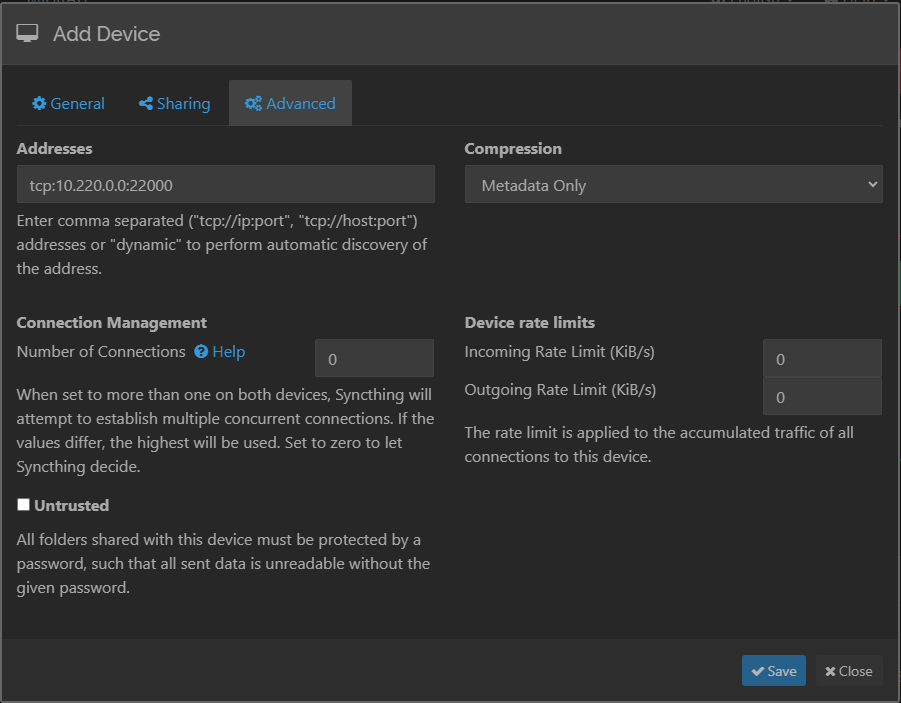
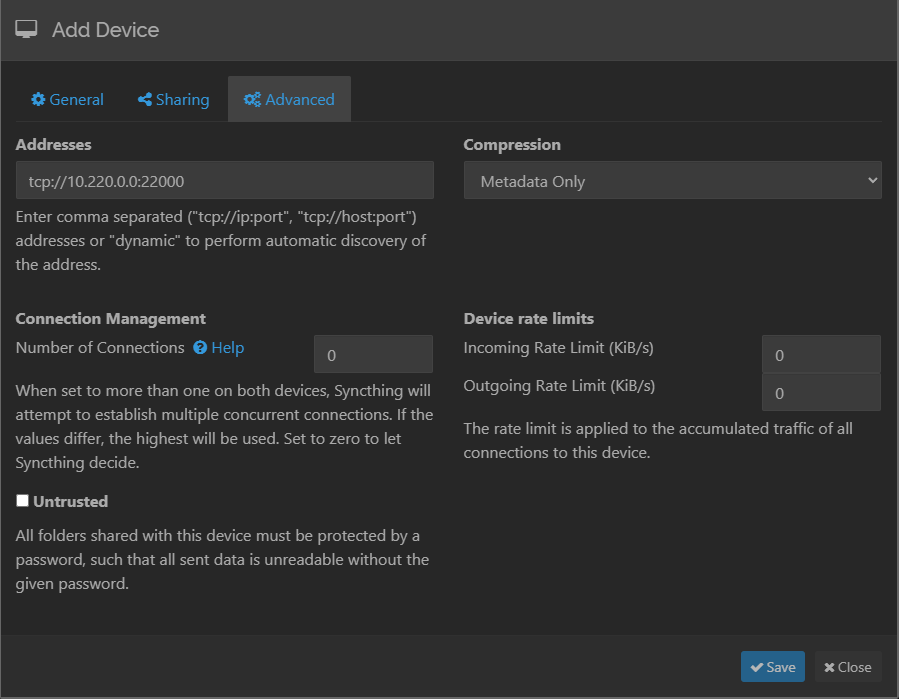
DOCS-2044-misleading-screen-shot-in-syncthing-data-migration

diff --git a/content/GettingStarted/DataMigrationSyncthing.md b/content/GettingStarted/DataMigrationSyncthing.md
@@ -138,9 +138,14 @@ The process of setting up data migration from an external NAS to TrueNAS consist
    Enter a clear identifying name, such as *INGEST*, and click **Save**.
 
 3. [Create a new dataset]({{< ref "datasetsscale" >}}) on TrueNAS to be the target for the data ingest, for example, */mnt/tank/ingest*.
+    This dataset serves as the migration destination for both Syncthing instances.
 
     Click **Advanced Options** and set **ACL Type** to **SMB/NFSv4**.
     Set **ACL Mode** to **Restricted**.
+
+    {{< hint type=note >}}
+    These ACL settings are required on the migration target dataset. If using an existing dataset, verify these settings are configured before proceeding.
+    {{< /hint >}}
 
 4. Install the second instance of the Syncthing Enterprise app on TrueNAS.
 
@@ -213,6 +218,10 @@ The process of setting up data migration from an external NAS to TrueNAS consist
 
    Click **Advanced**.
    Enter the device address and port for the first Syncthing instance, in the format {{< cli >}}tcp://*ip*:*port*{{< /cli >}}.
+
+   {{< hint type=note >}}
+   The address requires `//` after `tcp:`. Entering `tcp:*ip*:*port*` without the slashes fails with a misleading error.
+   {{< /hint >}}
 
    {{< trueimage src="/images/SCALE/Apps/SyncthingAddDeviceAdvanced.png" alt="Add Device - Advanced" id="Add Device - Advanced" >}}
 
